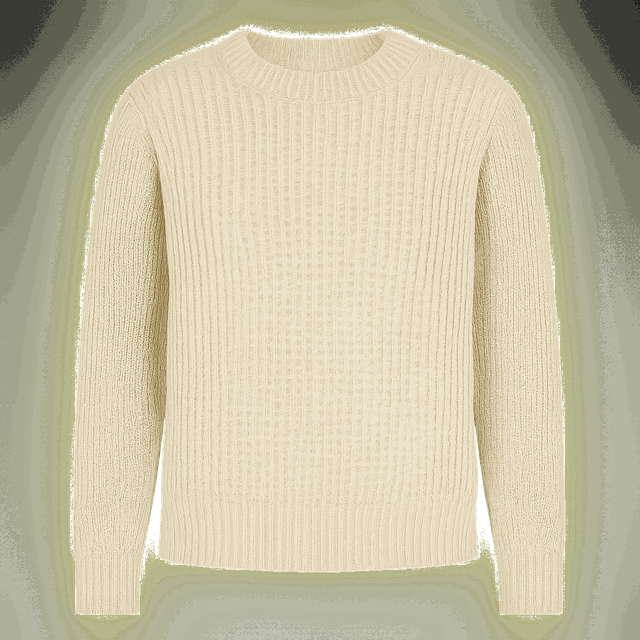
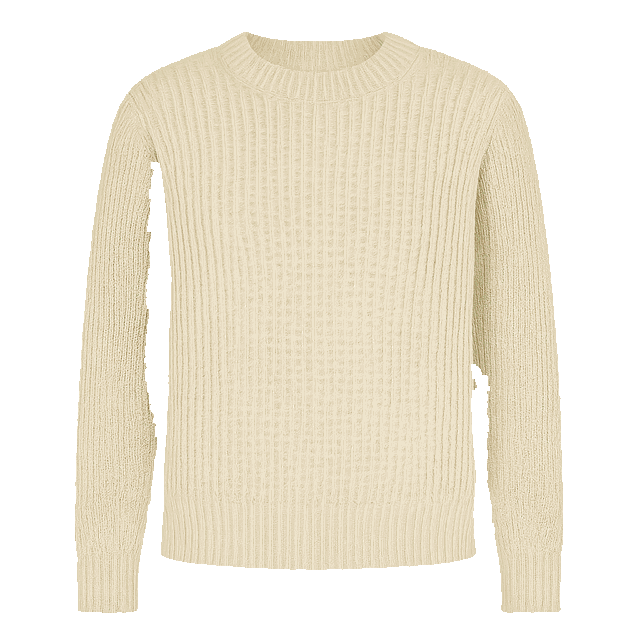
fix: 로그인 브랜드 패널 신규 로고 적용 + 크림 니트 컷아웃 배경 제거
- 로그인 좌측 패널의 구 로고(아이콘+텍스트)를 신규 cloSET 로고로 교체
- 다크 그린 배경에서 로고가 보이도록 초록 획을 흰색으로 재채색한
  다크 변형(brand/closet-logo-dark.png) 생성, 탄 획은 유지
- '저녁 약속' 마네킹 착장의 크림 니트 컷아웃(knit-cream.png)에 남아 있던
  크로마 키 잔여 배경을 테두리 플러드필+알파 침식으로 제거
- 프로덕션 빌드 + 데스크톱/모바일 스크린샷 검증 완료

diff --git a/web/app/globals.css b/web/app/globals.css
@@ -34,7 +34,7 @@ button,input,select{font:inherit}button{color:inherit}svg{display:block}.hidden{
 .mobile-nav{display:none;position:fixed;z-index:50;left:10px;right:10px;bottom:10px;height:62px;grid-template-columns:repeat(5,1fr);background:rgba(255,255,255,.93);border:1px solid var(--line);border-radius:18px;box-shadow:var(--shadow);backdrop-filter:blur(16px);padding:5px}.mobile-nav button{border:0;background:transparent;border-radius:12px;font-size:9px;color:var(--sub);font-weight:800;display:flex;flex-direction:column;align-items:center;justify-content:center;gap:3px}.mobile-nav button.active{background:var(--forest);color:white}.mobile-nav svg{width:18px;height:18px}
 @media(prefers-reduced-motion:reduce){*{scroll-behavior:auto!important;animation:none!important;transition:none!important}}
 /* authentication */
-.auth-screen{min-height:100vh;display:grid;grid-template-columns:minmax(360px,46%) minmax(480px,54%);background:#f8faf8}.auth-brand-panel{position:relative;overflow:hidden;background:linear-gradient(145deg,#143f36,#1f6a58 62%,#4f9079);color:white;padding:50px clamp(34px,6vw,82px);display:flex;flex-direction:column}.auth-brand-panel:before,.auth-brand-panel:after{content:"";position:absolute;border:1px solid rgba(255,255,255,.13);border-radius:50%}.auth-brand-panel:before{width:420px;height:420px;right:-150px;bottom:-130px}.auth-brand-panel:after{width:230px;height:230px;right:28px;bottom:28px}.auth-logo{display:flex;align-items:center;gap:11px;font-size:25px;font-weight:900;letter-spacing:-1.2px;position:relative;z-index:2}.auth-logo .brandmark{background:white;color:var(--forest)}.auth-message{margin:auto 0;position:relative;z-index:2}.auth-kicker{font-size:10px;letter-spacing:.14em;font-weight:900;color:#bfe1d3}.auth-message h1{font-size:clamp(31px,4vw,50px);line-height:1.13;letter-spacing:-2.2px;margin:13px 0 16px}.auth-message>p{max-width:490px;color:#d4e8df;line-height:1.75;font-size:13px}.auth-proof{display:grid;grid-template-columns:repeat(3,1fr);gap:10px;margin-top:28px;max-width:520px}.auth-proof div{padding:13px;border:1px solid rgba(255,255,255,.14);background:rgba(255,255,255,.08);backdrop-filter:blur(8px);border-radius:13px}.auth-proof b{font-size:14px;display:block}.auth-proof span{font-size:9px;color:#cbe1d8}.auth-privacy{position:relative;z-index:2;font-size:9px;color:#bfdbd0;display:flex;align-items:center;gap:7px}.auth-main{display:grid;place-items:center;padding:32px}.auth-card{width:min(440px,100%);background:white;border:1px solid var(--line);border-radius:24px;box-shadow:var(--shadow);padding:30px}.auth-card h2{font-size:27px;letter-spacing:-1px;margin:0}.auth-card>.auth-sub{font-size:11px;color:var(--sub);line-height:1.6;margin:7px 0 20px}.social-stack{display:grid;grid-template-columns:1fr 1fr 1fr;gap:8px}.social-btn{height:43px;border:1px solid var(--line);background:#fff;border-radius:11px;font-size:10px;font-weight:800;cursor:pointer}.social-btn:hover{background:var(--mint);border-color:#adc8bd}.social-btn.kakao{background:#fee500;border-color:#fee500;color:#171717}.auth-divider{display:flex;align-items:center;gap:10px;color:#93a09b;font-size:9px;margin:18px 0}.auth-divider:before,.auth-divider:after{content:"";height:1px;background:var(--line);flex:1}.auth-field{margin-bottom:12px}.auth-field label{font-size:10px;font-weight:900;display:block;margin-bottom:6px}.auth-input-wrap{position:relative}.auth-field input{width:100%;height:45px;border:1px solid var(--line);border-radius:11px;padding:0 13px;outline:0}.auth-field input:focus{border-color:var(--forest);box-shadow:0 0 0 3px rgba(31,106,88,.1)}.password-toggle{position:absolute;right:8px;top:7px;border:0;background:transparent;height:31px;padding:0 7px;font-size:9px;font-weight:800;color:var(--forest);cursor:pointer}.auth-error{display:none;color:var(--danger);background:#fff1f0;border:1px solid #f2cfca;border-radius:10px;padding:9px 10px;font-size:9px;margin:0 0 11px}.auth-error.show{display:block}.auth-options{display:flex;justify-content:space-between;align-items:center;margin:2px 0 14px;font-size:9px;color:var(--sub)}.auth-options label{display:flex;gap:5px;align-items:center}.auth-link{border:0;background:transparent;color:var(--forest);font-weight:900;font-size:9px;cursor:pointer;padding:0}.auth-submit{width:100%;height:46px;border:0;border-radius:12px;background:var(--forest);color:white;font-weight:900;cursor:pointer}.auth-submit:hover{background:var(--forest2)}.auth-switch{text-align:center;color:var(--sub);font-size:10px;margin:15px 0 0}.demo-btn{width:100%;border:0;background:transparent;color:var(--sub);font-size:9px;font-weight:800;margin-top:13px;cursor:pointer}.auth-legal{text-align:center;font-size:8px;color:#8d9995;line-height:1.6;margin:18px 0 0}.auth-legal a{color:#667570;text-decoration:underline}.auth-badge{display:inline-flex;align-items:center;gap:5px;background:var(--mint);color:var(--forest2);border-radius:8px;padding:5px 7px;font-size:8px;font-weight:900;margin-bottom:12px}
+.auth-screen{min-height:100vh;display:grid;grid-template-columns:minmax(360px,46%) minmax(480px,54%);background:#f8faf8}.auth-brand-panel{position:relative;overflow:hidden;background:linear-gradient(145deg,#143f36,#1f6a58 62%,#4f9079);color:white;padding:50px clamp(34px,6vw,82px);display:flex;flex-direction:column}.auth-brand-panel:before,.auth-brand-panel:after{content:"";position:absolute;border:1px solid rgba(255,255,255,.13);border-radius:50%}.auth-brand-panel:before{width:420px;height:420px;right:-150px;bottom:-130px}.auth-brand-panel:after{width:230px;height:230px;right:28px;bottom:28px}.auth-logo{position:relative;z-index:2}.auth-logo img{width:148px;height:auto;display:block}.auth-message{margin:auto 0;position:relative;z-index:2}.auth-kicker{font-size:10px;letter-spacing:.14em;font-weight:900;color:#bfe1d3}.auth-message h1{font-size:clamp(31px,4vw,50px);line-height:1.13;letter-spacing:-2.2px;margin:13px 0 16px}.auth-message>p{max-width:490px;color:#d4e8df;line-height:1.75;font-size:13px}.auth-proof{display:grid;grid-template-columns:repeat(3,1fr);gap:10px;margin-top:28px;max-width:520px}.auth-proof div{padding:13px;border:1px solid rgba(255,255,255,.14);background:rgba(255,255,255,.08);backdrop-filter:blur(8px);border-radius:13px}.auth-proof b{font-size:14px;display:block}.auth-proof span{font-size:9px;color:#cbe1d8}.auth-privacy{position:relative;z-index:2;font-size:9px;color:#bfdbd0;display:flex;align-items:center;gap:7px}.auth-main{display:grid;place-items:center;padding:32px}.auth-card{width:min(440px,100%);background:white;border:1px solid var(--line);border-radius:24px;box-shadow:var(--shadow);padding:30px}.auth-card h2{font-size:27px;letter-spacing:-1px;margin:0}.auth-card>.auth-sub{font-size:11px;color:var(--sub);line-height:1.6;margin:7px 0 20px}.social-stack{display:grid;grid-template-columns:1fr 1fr 1fr;gap:8px}.social-btn{height:43px;border:1px solid var(--line);background:#fff;border-radius:11px;font-size:10px;font-weight:800;cursor:pointer}.social-btn:hover{background:var(--mint);border-color:#adc8bd}.social-btn.kakao{background:#fee500;border-color:#fee500;color:#171717}.auth-divider{display:flex;align-items:center;gap:10px;color:#93a09b;font-size:9px;margin:18px 0}.auth-divider:before,.auth-divider:after{content:"";height:1px;background:var(--line);flex:1}.auth-field{margin-bottom:12px}.auth-field label{font-size:10px;font-weight:900;display:block;margin-bottom:6px}.auth-input-wrap{position:relative}.auth-field input{width:100%;height:45px;border:1px solid var(--line);border-radius:11px;padding:0 13px;outline:0}.auth-field input:focus{border-color:var(--forest);box-shadow:0 0 0 3px rgba(31,106,88,.1)}.password-toggle{position:absolute;right:8px;top:7px;border:0;background:transparent;height:31px;padding:0 7px;font-size:9px;font-weight:800;color:var(--forest);cursor:pointer}.auth-error{display:none;color:var(--danger);background:#fff1f0;border:1px solid #f2cfca;border-radius:10px;padding:9px 10px;font-size:9px;margin:0 0 11px}.auth-error.show{display:block}.auth-options{display:flex;justify-content:space-between;align-items:center;margin:2px 0 14px;font-size:9px;color:var(--sub)}.auth-options label{display:flex;gap:5px;align-items:center}.auth-link{border:0;background:transparent;color:var(--forest);font-weight:900;font-size:9px;cursor:pointer;padding:0}.auth-submit{width:100%;height:46px;border:0;border-radius:12px;background:var(--forest);color:white;font-weight:900;cursor:pointer}.auth-submit:hover{background:var(--forest2)}.auth-switch{text-align:center;color:var(--sub);font-size:10px;margin:15px 0 0}.demo-btn{width:100%;border:0;background:transparent;color:var(--sub);font-size:9px;font-weight:800;margin-top:13px;cursor:pointer}.auth-legal{text-align:center;font-size:8px;color:#8d9995;line-height:1.6;margin:18px 0 0}.auth-legal a{color:#667570;text-decoration:underline}.auth-badge{display:inline-flex;align-items:center;gap:5px;background:var(--mint);color:var(--forest2);border-radius:8px;padding:5px 7px;font-size:8px;font-weight:900;margin-bottom:12px}
 @media(max-width:820px){.auth-screen{grid-template-columns:1fr}.auth-brand-panel{min-height:205px;padding:25px 24px}.auth-message{margin:25px 0 10px}.auth-message h1{font-size:28px;margin:8px 0}.auth-message>p{display:none}.auth-proof{display:none}.auth-privacy{display:none}.auth-main{padding:20px 15px 30px;align-items:start}.auth-card{padding:23px;border-radius:19px;margin-top:-35px;position:relative;z-index:3}.auth-card h2{font-size:23px}}
 @media(max-width:420px){.social-stack{grid-template-columns:1fr}.social-btn{height:40px}.auth-card{padding:20px 17px}.auth-brand-panel{min-height:185px}.auth-message h1{font-size:24px}}
 /* 실제 옷 사진 (public/items) — 컨테이너를 꽉 채우고 넘침을 클립한다 */

diff --git a/web/components/AuthScreen.tsx b/web/components/AuthScreen.tsx
@@ -2,7 +2,6 @@
 
 import { useEffect, useRef, useState } from "react";
 import gsap from "gsap";
-import { Icon } from "./Sprite";
 
 interface AuthScreenProps {
   onEnter: (message?: string) => void;
@@ -88,10 +87,7 @@ export function AuthScreen({ onEnter, toast }: AuthScreenProps) {
     <section className="auth-screen" id="authScreen" aria-labelledby="authTitle" ref={rootRef}>
       <div className="auth-brand-panel">
         <div className="auth-logo">
-          <div className="brandmark">
-            <Icon id="i-closet" />
-          </div>
-          cloSET
+          <img src="/brand/closet-logo-dark.png" alt="cloSET" />
         </div>
         <div className="auth-message">
           <div className="auth-kicker">REMEMBER · CARE · CIRCULATE</div>
